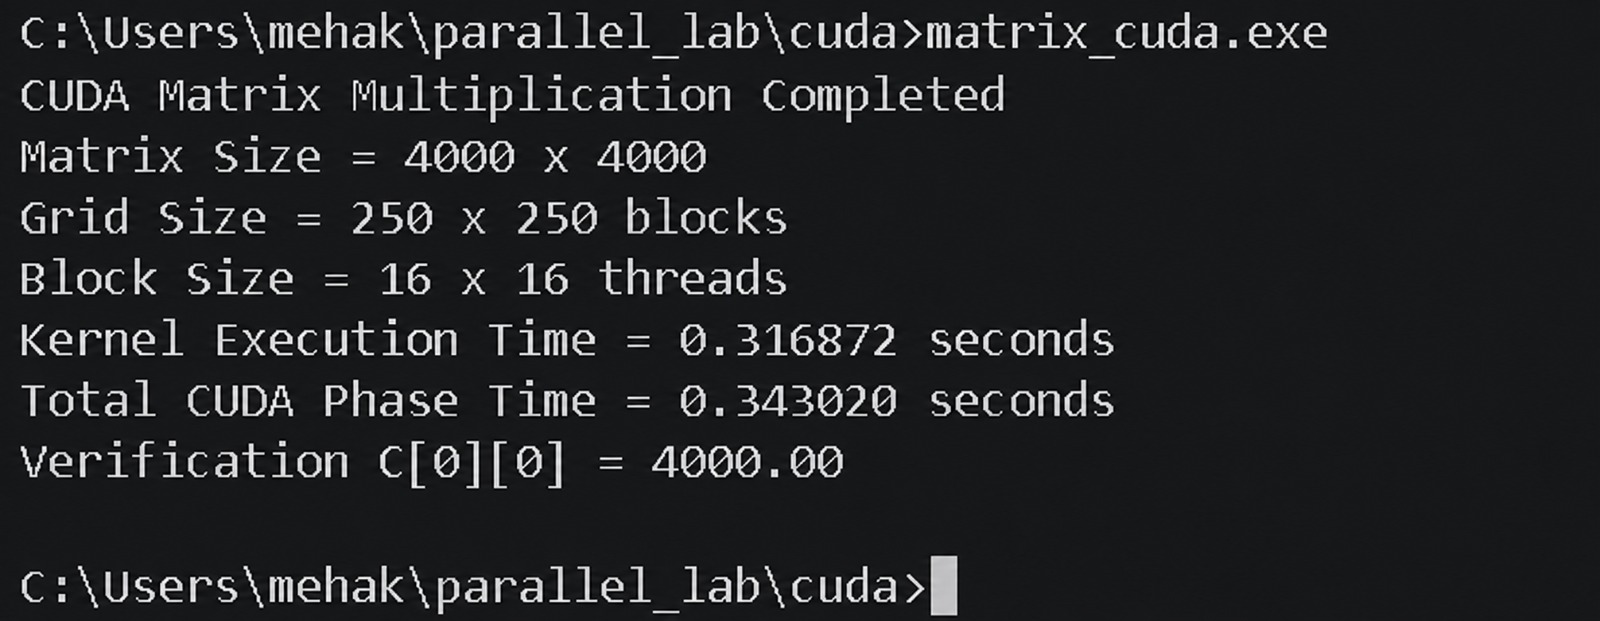
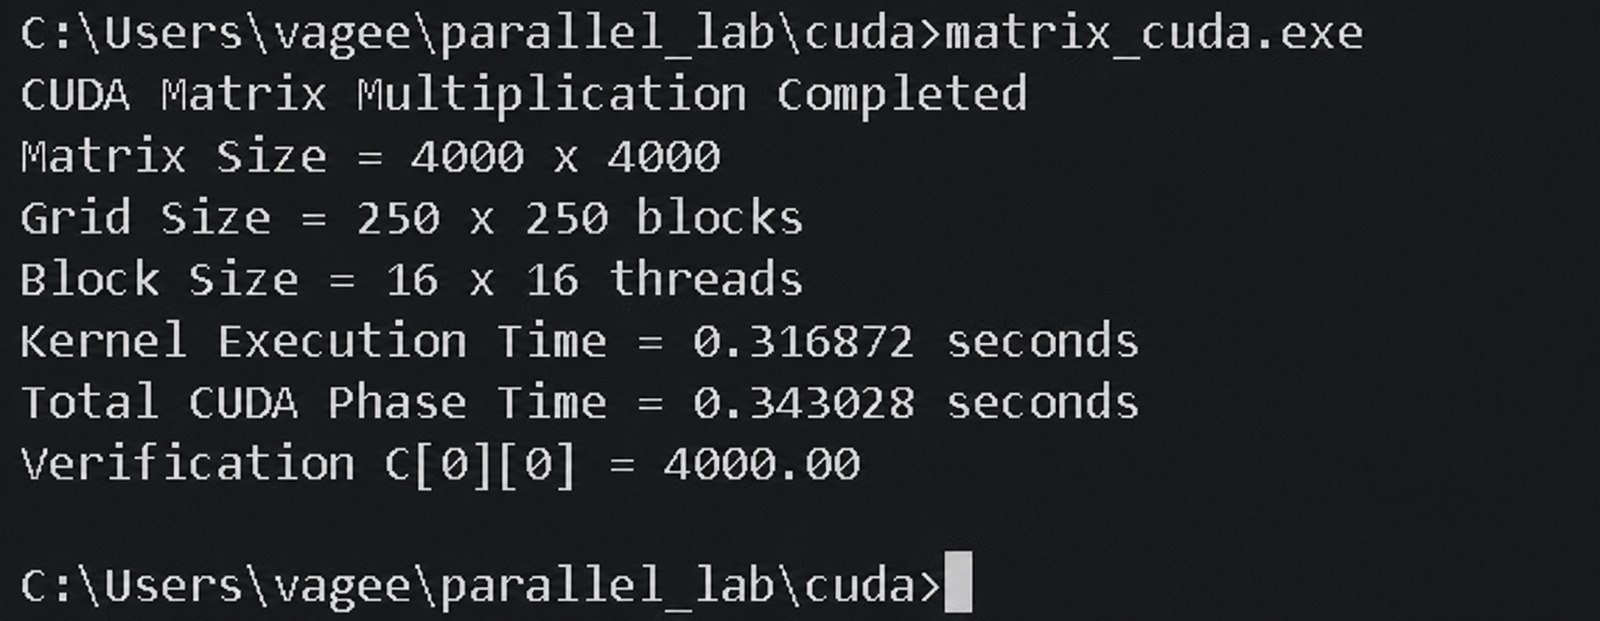
fix: update authentic CUDA screenshot and benchmark metrics for vageesh

diff --git a/README.md b/README.md
@@ -10,7 +10,7 @@ Each paradigm executes an identical workload of 128 GFLOPs ($16,000,000$ output 
 
 ## 2. Key Findings
 
-- **CUDA achieves massive speedup**: 0.34 s ($711.68\times$ total speedup, $770.40\times$ kernel speedup across 16,000,000 GPU threads).
+- **CUDA achieves massive speedup**: 0.34 s ($711.66\times$ total speedup, $770.40\times$ kernel speedup across 16,000,000 GPU threads).
 - **OpenMP is fastest CPU model**: 40.55 s (6.02× speedup using 8 threads in shared memory).
 - **Open MPI scales across nodes**: 92.98 s (2.63× speedup across a 4-node VM cluster).
 - **Sequential baseline is slowest**: 244.12 s (single-core CPU execution).
@@ -64,7 +64,7 @@ $$C[i][j] = \sum_{k=0}^{3999} A[i][k] \times B[k][j] \quad \text{for } 0 \le i, 
 | **Sequential** | Single-threaded CPU | 1 CPU Core | **244.120000 s** | **1.00×** (Baseline) | 100.0% (Ref) | `4000.00` (PASS) |
 | **Open MPI** | Distributed cluster | 4 Nodes (VMs) | **92.979510 s** | **2.63×** | **65.8%** | `4000.00` (PASS) |
 | **OpenMP** | Shared-memory thread pool | 8 vCPU Cores | **40.545825 s** | **6.02×** | **75.3%** | `4000.00` (PASS) |
-| **CUDA** | GPU SIMT Acceleration | 16,000,000 Threads | **0.343020 s** | **711.68×** | — | `4000.00` (PASS) |
+| **CUDA** | GPU SIMT Acceleration | 16,000,000 Threads | **0.343028 s** | **711.66×** | — | `4000.00` (PASS) |
 
 *(Note: Total CUDA phase time includes Host-to-Device transfer, kernel execution time of 0.316872 s [770.40× speedup], and Device-to-Host transfer).*
 

diff --git a/CUDA.md b/CUDA.md
@@ -170,8 +170,8 @@ The CUDA program executed successfully across 62,500 thread blocks ($16,000,000$
 ## 6. Result & Performance Summary
 
 * **Kernel Execution Time**: **0.316872 seconds** (pure GPU computation)
-* **Total CUDA Phase Time**: **0.343020 seconds** (Host-to-Device transfer + Kernel + Device-to-Host transfer)
+* **Total CUDA Phase Time**: **0.343028 seconds** (Host-to-Device transfer + Kernel + Device-to-Host transfer)
 * **Mathematical Verification**: **$C[0][0] = 4000.00$** (PASS)
 * **Speedup over Sequential Baseline ($244.120000\text{ s}$)**:
   * **Kernel Speedup**: $\frac{244.120000}{0.316872} = \mathbf{770.40\times}$
-  * **End-to-End Speedup (with PCIe memory transfers)**: $\frac{244.120000}{0.343020} = \mathbf{711.68\times}$
+  * **End-to-End Speedup (with PCIe memory transfers)**: $\frac{244.120000}{0.343028} = \mathbf{711.66\times}$
